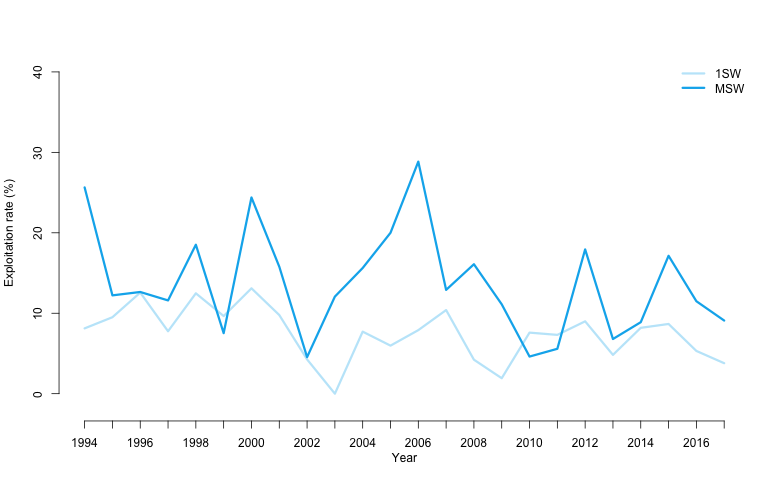
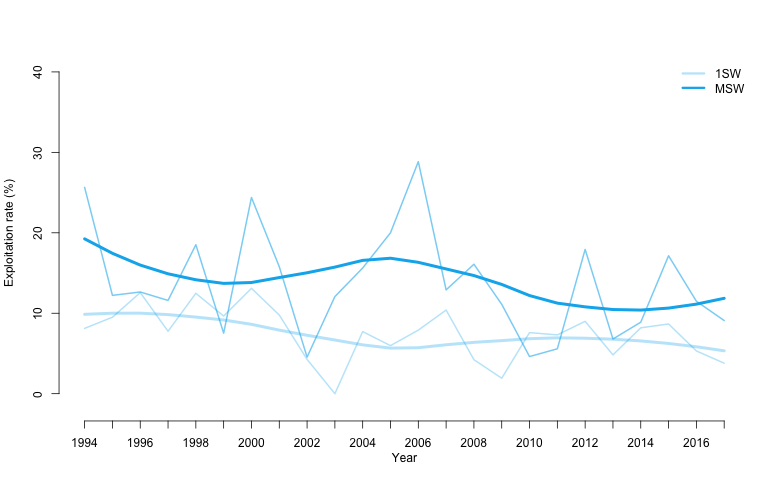
Evolution trend by loess smoothing added

Changed region(s): [[0.0923, 0.4062, 0.9231, 0.75], [0.4923, 0.3438, 0.5538, 0.5], [0.0923, 0.4062, 0.1231, 0.4688]]

diff --git a/report/README.md b/report/README.md
@@ -9,24 +9,24 @@ The file "Total_return_all.csv" combines the estimates of the total number of re
 
 ![Figure1](total_return.png)  
 
-Figure1: Total number of anadromous adults returning to the river (medians and 95% credible intervals are reported)
+Figure1: Total number of anadromous adults returning to the river (medians and 95% credible intervals are reported). Evolution trend by loess smoothing.
 
 ![Figure2](prop_MSW_return.png)  
 
-Figure2: Proportion of Multiple Sea Winter returning to the river (only medians are reported)
+Figure2: Proportion of Multiple Sea Winter returning to the river (only medians are reported). Evolution trend by loess smoothing.
 
 
 ![Figure3](exploitation_Scorff.png) 
 
-Figure3: Exploitation rate in the rivers Scorff (only medians are reported)
+Figure3: Exploitation rate in the rivers Scorff (only medians are reported) Evolution trend by loess smoothing.
 
 # SMOLTS
 ![Figure4](total_smolt.png) 
 
-Figure4: Total number of smolts (medians and 95% credible intervals are reported).
+Figure4: Total number of smolts (medians and 95% credible intervals are reported). Evolution trend by loess smoothing.
 
 
 # PARR
 ![Figure5](total_tacon.png) 
 
-Figure5: Total number of parr (medians and 95% credible intervals are reported).
+Figure5: Total number of parr (medians and 95% credible intervals are reported). Evolution trend by loess smoothing.
